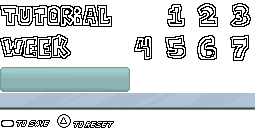
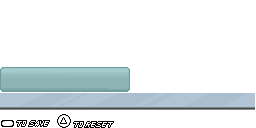
more story menu stuff
why did i spend so much time on this lmao

diff --git a/src/menu.c b/src/menu.c
@@ -233,31 +233,47 @@ static int increase_Story(int length, int thesong)
 	return result * 10;
 }
 
-static void Menu_DrawWeek(const char *week, s32 x, s32 y)
+static void Menu_DrawWeek(const char *week, s32 y)
 {
 	//Draw label
-	if (week == NULL)
+	if (week == "11")
 	{
-		//Tutorial
-		RECT label_src = {0, 0, 112, 32};
-		Gfx_BlitTex(&menu.tex_story, &label_src, x, y);
+		//Tomongus
+		RECT label_src = {0, 0, 98, 32};
+		Gfx_BlitTex(&menu.tex_story, &label_src, 160 - (98 / 2), y);
+	}
+	else if (week == "12")
+	{
+		//Boo!
+		RECT label_src = {102, 0, 36, 32};
+		Gfx_BlitTex(&menu.tex_story, &label_src, 160 - (36 / 2), y);
+	}
+	else if (week == "13")
+	{
+		//Henry
+		RECT label_src = {46, 32, 46, 32};
+		Gfx_BlitTex(&menu.tex_story, &label_src, 160 - (46 / 2), y);
+	}
+	else if (week == "10")
+	{
+		//Defeat
+		RECT label_src = {142, 0, 22, 32};
+		Gfx_BlitTex(&menu.tex_story, &label_src, 160 - (22 / 2), y);
 	}
 	else
 	{
 		//Week
-		RECT label_src = {0, 32, 80, 32};
-		Gfx_BlitTex(&menu.tex_story, &label_src, x, y);
+		RECT label_src = {0, 32, 42, 32};
+		Gfx_BlitTex(&menu.tex_story, &label_src, 160 - (66 / 2), y);
 		
 		//Number
-		x += 80;
 		for (; *week != '\0'; week++)
 		{
 			//Draw number
 			u8 i = *week - '0';
 			
-			RECT num_src = {128 + ((i & 3) << 5), ((i >> 2) << 5), 32, 32};
-			Gfx_BlitTex(&menu.tex_story, &num_src, x, y);
-			x += 32;
+			RECT num_src = {(174 + (i * 12)) - 12, 0, 10, 32};
+			Gfx_BlitTex(&menu.tex_story, &num_src, (160 - (66 / 2)) + 56, y);
 		}
 	}
 }
@@ -741,24 +757,24 @@ void Menu_Tick(void)
 				const char *tracks[5];
 				int length;
 			} menu_options[] = {
-				{"1", StageId_SussusMoogus, "POLUS PROBLEMS", {"SUSSUS MOOGUS", "SABOTAGE", "MELTDOWN", NULL, NULL}, 3},
-				{"2", StageId_SussusToogus, "MIRA MANIA", {"SUSSUS TOOGUS", "LIGHTS DOWN", "REACTOR", "EJECTED", NULL}, 4},
-				{"3", StageId_Mando, "AIRSHIP ATROCITIES", {"MANDO", "DLOW", "OVERSIGHT", "DANGER", "DOUBLE KILL"}, 5},
-				{"4", StageId_Defeat, "DEFEAT", {NULL, NULL, NULL, NULL, NULL}, 1},
-				{"5", StageId_Ashes, "MAGMATIC MONSTROSITY", {"ASHES", "MAGMATIC", "BOILING POINT", NULL, NULL}, 3},
-				{"6", StageId_Delusion, "DEADLY DELUSION", {"DELUSION", "BLACKOUT", "NEUROTIC", NULL, NULL}, 3},
-				{"7", StageId_Heartbeat, "HUMANE HEARTBEAT", {"HEARTBEAT", "PINKWAVE", "PRETENDER", NULL, NULL}, 3},
-				{NULL, StageId_O2, "JORSAWSEES JAMS", {"OTWO", "VOTING TIME", "TURBULENCE", "VICTORY", NULL}, 4},
-				{NULL, StageId_SussyBussy, "ROUSEY RIVAL", {"SUSSY BUSSY", "RIVALS", "CHEWMATE", NULL, NULL}, 3},
-				{NULL, StageId_Christmas, "LOGGOS HALLOWEEN", {"CHRISTMAS", "SPOOKPOSTOR", NULL, NULL, NULL}, 2},
-				{NULL, StageId_Titular, "BATTLING THE BOYFRIEND", {"TITULAR", "GREATEST PLAN", "REINFORCEMENTS", "ARMED", NULL}, 4},
+				{"1", StageId_SussusMoogus,">POLUS PROBLEMS", {"SUSSUS MOOGUS","SABOTAGE","MELTDOWN", NULL, NULL}, 3},
+				{"2", StageId_SussusToogus,"MIRA MANIA<", {"SUSSUS TOOGUS","LIGHTS DOWN","REACTOR","EJECTED", NULL}, 4},
+				{"3", StageId_Mando,">AIRSHIP ATROCITIES", {"MANDO","DLOW","OVERSIGHT","DANGER","DOUBLE KILL"}, 5},
+				{"10", StageId_Defeat,">DEFEAT", {NULL, NULL, NULL, NULL, NULL}, 1},
+				{"5", StageId_Ashes,"MAGMATIC MONSTROSITY<<<<", {"ASHES","MAGMATIC","BOILING POINT", NULL, NULL}, 3},
+				{"6", StageId_Delusion,"DEADLY DELUSION", {"DELUSION","BLACKOUT","NEUROTIC", NULL, NULL}, 3},
+				{"7", StageId_Heartbeat,"HUMANE HEARTBEAT<", {"HEARTBEAT","PINKWAVE","PRETENDER", NULL, NULL}, 3},
+				{"4", StageId_O2,"JORSAWSEES JAMS<", {"OTWO","VOTING TIME","TURBULENCE","VICTORY", NULL}, 4},
+				{"11", StageId_SussyBussy,"ROUSEY RIVAL", {"SUSSY BUSSY","RIVALS","CHEWMATE", NULL, NULL}, 3},
+				{"12", StageId_Christmas,"LOGGOS HALLOWEEN<", {"CHRISTMAS","SPOOKPOSTOR", NULL, NULL, NULL}, 2},
+				{"13", StageId_Titular,"BATTLING THE BOYFRIEND", {"TITULAR","GREATEST PLAN","REINFORCEMENTS","ARMED", NULL}, 4},
 			};
 	
-			//Draw week name and tracks
-			menu.font_sus.draw(&menu.font_sus,
+			//Draw score
+			menu.font_arial.draw(&menu.font_arial,
 				scoredisp,
-				0,
-				7,
+				26,
+				22,
 				FontAlign_Left
 			);
 
@@ -772,15 +788,6 @@ void Menu_Tick(void)
 				menu.page_state.title.fade = FIXED_DEC(0,1);
 				menu.page_state.title.fadespd = FIXED_DEC(0,1);
 				menu.page_param.stage.last = true;
-			}
-			
-			//Draw white fade
-			if (menu.page_state.title.fade > 0)
-			{
-				RECT flash2 = {0, 0, screen.SCREEN_WIDTH, screen.SCREEN_HEIGHT};
-				u8 flash_col = menu.page_state.title.fade >> FIXED_SHIFT;
-				Gfx_BlendRect(&flash2, flash_col, flash_col, flash_col, 1);
-				menu.page_state.title.fade -= FIXED_MUL(menu.page_state.title.fadespd, timer_dt);
 			}
 			
 			//Handle option and selection
@@ -820,8 +827,6 @@ void Menu_Tick(void)
 						menu.page_param.stage.id = menu_options[menu.select].stage;
 						menu.page_param.stage.story = true;
 						menu.trans_time = FIXED_UNIT;
-						menu.page_state.title.fade = FIXED_DEC(255,1);
-						menu.page_state.title.fadespd = FIXED_DEC(510,1);
 					}
 					else if ((menu.select == 3) && (stage.prefs.defeat == 1))
 					{
@@ -831,8 +836,6 @@ void Menu_Tick(void)
 						menu.page_param.stage.id = menu_options[menu.select].stage;
 						menu.page_param.stage.story = true;
 						menu.trans_time = FIXED_UNIT;
-						menu.page_state.title.fade = FIXED_DEC(255,1);
-						menu.page_state.title.fadespd = FIXED_DEC(510,1);
 					}
 				}
 				
@@ -850,19 +853,19 @@ void Menu_Tick(void)
 			//Draw week name and tracks
 			menu.font_sus.draw(&menu.font_sus,
 				menu_options[menu.select].name,
-				screen.SCREEN_WIDTH - 16,
-				24,
-				FontAlign_Right
+				160,
+				61,
+				FontAlign_Center
 			);
 			
 			const char * const *trackp = menu_options[menu.select].tracks;
 			for (size_t i = 0; i < COUNT_OF(menu_options[menu.select].tracks); i++, trackp++)
 			{
 				if (*trackp != NULL)
-					menu.font_sus.draw(&menu.font_sus,
+					menu.font_arial.draw(&menu.font_arial,
 						*trackp,
-						screen.SCREEN_WIDTH - 16,
-						screen.SCREEN_HEIGHT - (4 * 24) + (i * 24),
+						295,
+						22 + (i * 11),
 						FontAlign_Right
 					);
 			}
@@ -871,24 +874,8 @@ void Menu_Tick(void)
 			s32 next_scroll = menu.select * FIXED_DEC(48,1);
 			menu.scroll += (next_scroll - menu.scroll) >> 3;
 			
-			if (menu.next_page == menu.page || menu.next_page == MenuPage_Main)
-			{
-				//Draw all options
-				for (u8 i = 0; i < COUNT_OF(menu_options); i++)
-				{
-					s32 y = 64 + (i * 48) - (menu.scroll >> FIXED_SHIFT);
-					if (y <= 16)
-						continue;
-					if (y >= screen.SCREEN_HEIGHT)
-						break;
-					Menu_DrawWeek(menu_options[i].week, 48, y);
-				}
-			}
-			else if (animf_count & 2)
-			{
-				//Draw selected option
-				Menu_DrawWeek(menu_options[menu.select].week, 48, 64 + (menu.select * 48) - (menu.scroll >> FIXED_SHIFT));
-			}
+			//Draw selected option
+			Menu_DrawWeek(menu_options[menu.select].week, 31);
 			
 			//Draw border
 			RECT border_src = {  0,  0,255,191};

diff --git a/src/font_susmap.h b/src/font_susmap.h
@@ -21,18 +21,18 @@ static const struct
 	{212, 180, 4, 14}, //0
 	{218, 180, 3, 14}, //1
 	{223, 180, 4, 14}, //2
-	{203, 162, 5, 14,}, //3
-	{203, 162, 5, 14,}, //4
-	{203, 162, 5, 14,}, //5
-	{203, 162, 5, 14,}, //6
-	{203, 162, 5, 14,}, //7
-	{203, 162, 5, 14,}, //8
-	{203, 162, 5, 14,}, //9
-	{203, 162, 5, 14,}, //:
+	{209, 162, 5, 14,}, //3
+	{215, 162, 3, 14,}, //4
+	{219, 162, 4, 14,}, //5
+	{224, 162, 4, 14,}, //6
+	{229, 162, 4, 14,}, //7
+	{234, 162, 3, 14,}, //8
+	{234, 162, 3, 14,}, //9
+	{229, 180, 1, 14,}, //:
 	{203, 162, 5, 14,}, //;
-	{203, 162, 5, 14,}, //<
+	{203, 162, 1, 14,}, //<
 	{203, 162, 5, 14,}, //=
-	{203, 162, 5, 14,}, //>
+	{203, 162, 1, 14,}, //>
 	{203, 162, 5, 14,}, //?
 	{203, 162, 5, 14,}, //@
 	{67, 180, 5, 14}, //A

diff --git a/src/font.c b/src/font.c
@@ -167,7 +167,7 @@ void Font_CDR_DrawCol(struct FontData *this, const char *text, s32 x, s32 y, Fon
 s32 Font_Sus_GetWidth(struct FontData *this, const char *text)
 {
 	(void)this;
-	return strlen(text) * 7;
+	return strlen(text) * 5;
 }
 
 void Font_Sus_DrawCol(struct FontData *this, const char *text, s32 x, s32 y, FontAlign align, u8 r, u8 g, u8 b)
